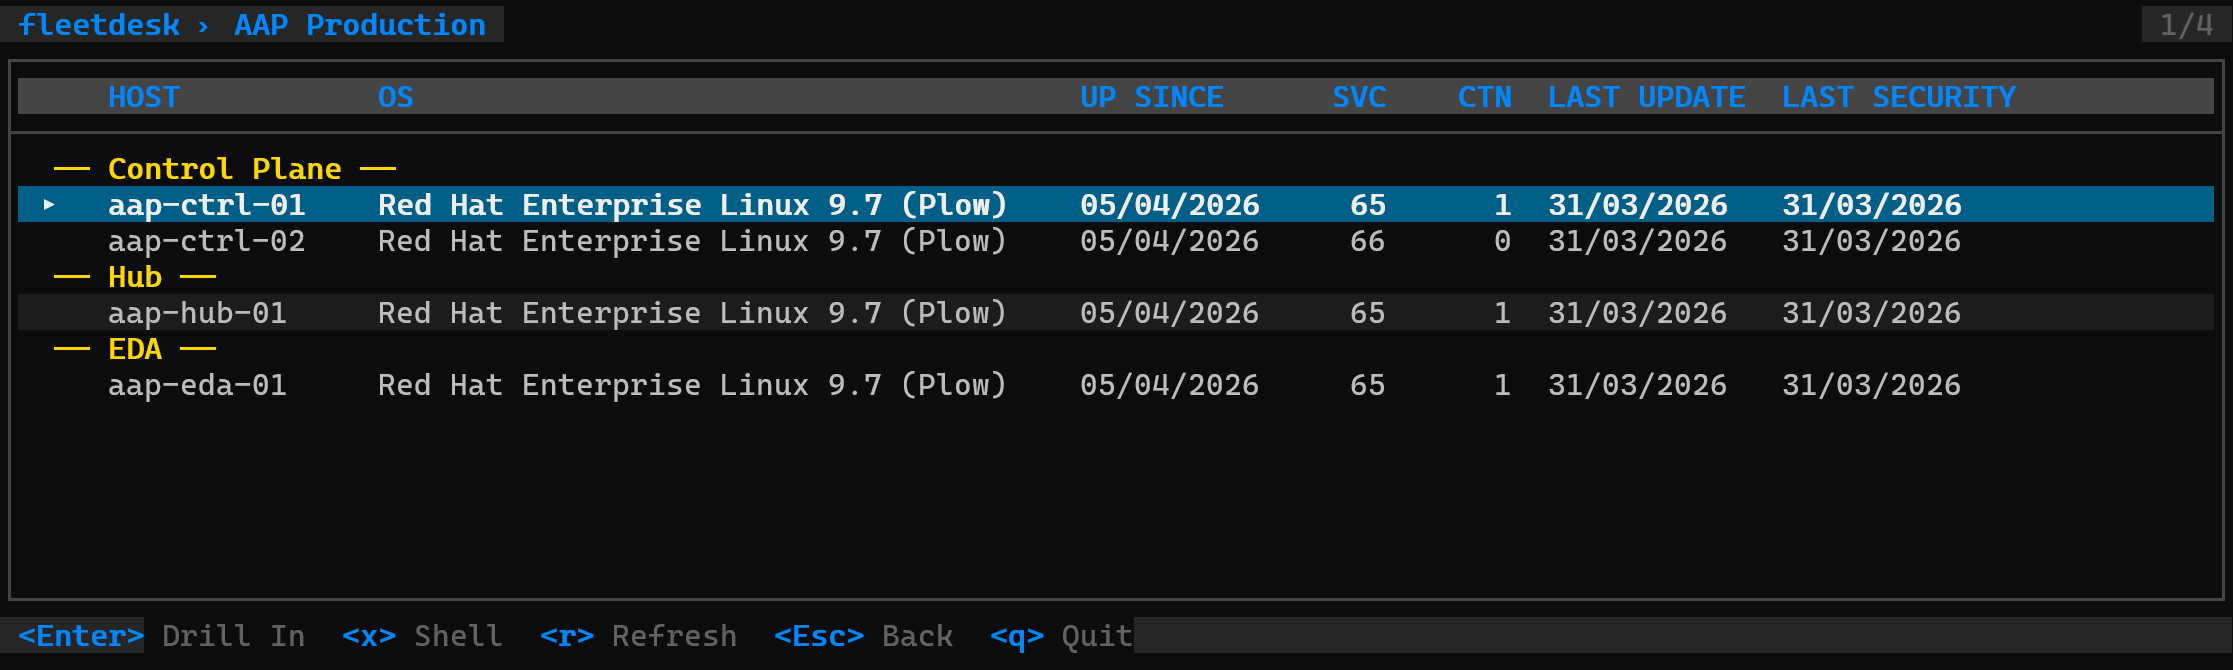
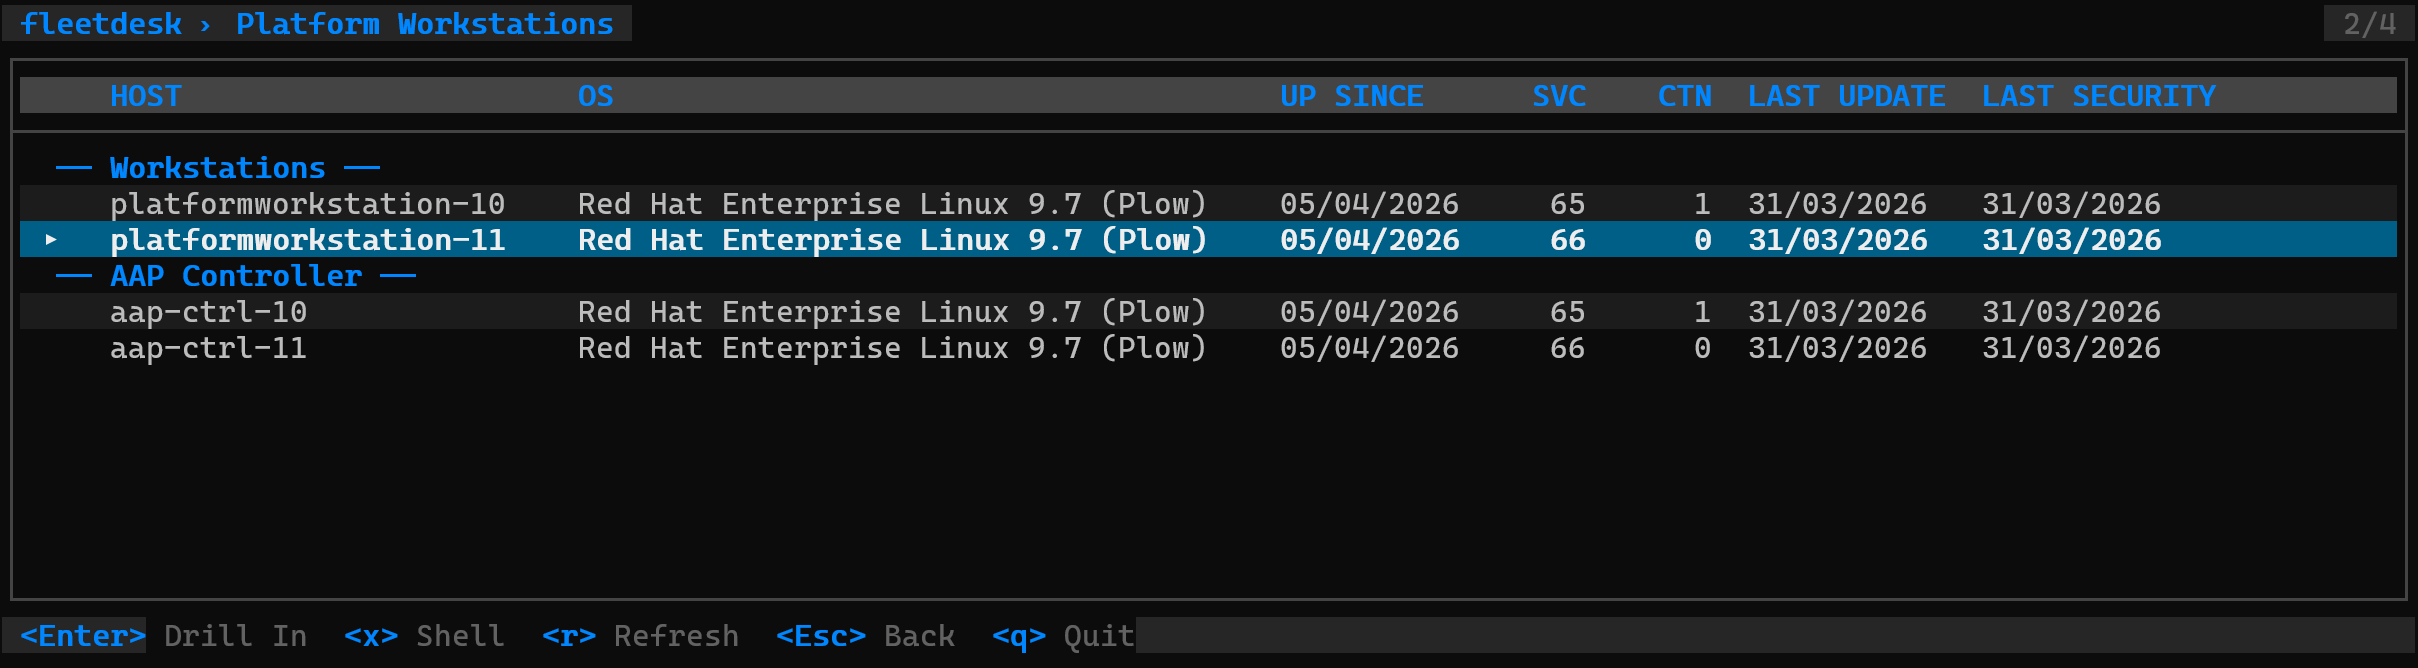
fix: group header color to blue, update host list screenshot

diff --git a/styles.go b/styles.go
@@ -69,6 +69,6 @@ var (
 			Bold(true)
 
 	groupHeaderStyle = lipgloss.NewStyle().
-				Foreground(colorYellow).
+				Foreground(colorBlue).
 				Bold(true)
 )
